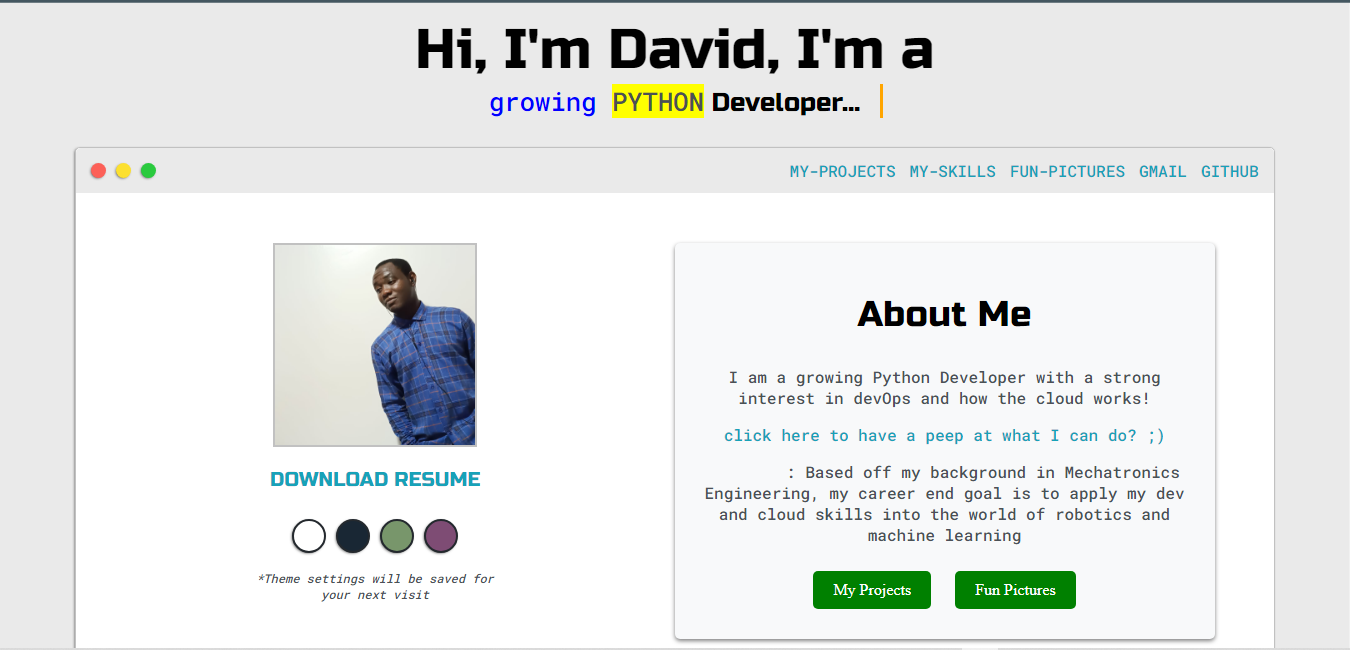
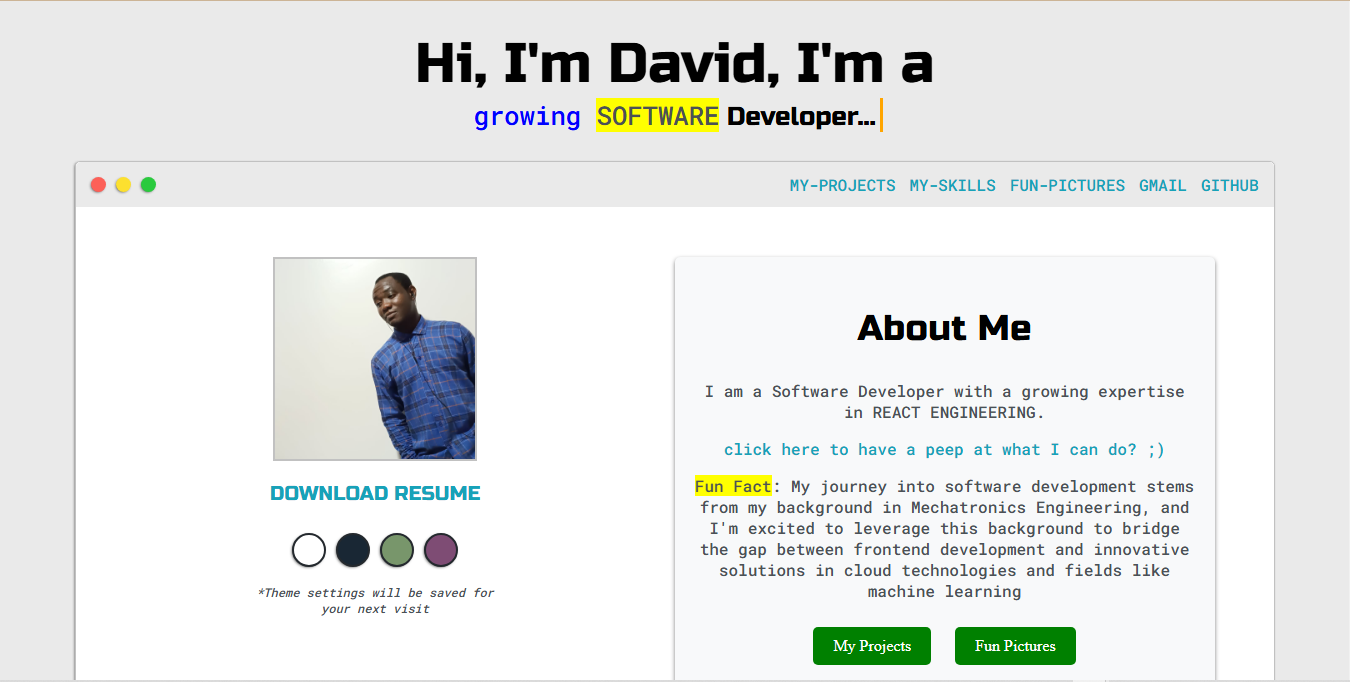
made edits

diff --git a/website/templates/my_skills.html b/website/templates/my_skills.html
@@ -14,11 +14,16 @@
 	<div class="category">
 		<h3>Web Development</h3>
 		<div class="skills">
-			<div class="skill">Flask Web Framework</div>
-			<div class="skill">React</div>
 			<div class="skill">html</div>
 			<div class="skill">css</div>
 			<div class="skill">javascript</div>
+			<div class="skill">React</div>
+			<div class="skill">Redux</div>
+			<div class="skill">Bootstrap</div>
+			<div class="skill">TypeScript</div>
+			<div class="skill">Next JS</div>
+			<div class="skill">Fast API</div>
+			<div class="skill">Flask</div>
 		</div>
 	</div>
 
@@ -34,9 +39,12 @@
 		<h3>DevOps</h3>
 		<div class="skills">
 			<div class="skill">Linux</div>
+			<div class="skill">Python</div>
 			<div class="skill">Bash scripting</div>
-			<div class="skill">AWS cloud products such as AWS Elastic Compute Cloud (ec2 instances)</div>
+			<div class="skill">AWS EC2</div>
 			<div class="skill">Docker</div>
+			<div class="skill">Github Workflow</div>
+			<div class="skill">CI/CD pipeline</div>
 		</div>
 	</div>		
 	
@@ -45,6 +53,9 @@
 		<div class="skills">
 			<div class="skill">Postman</div>
 			<div class="skill">Git and GitHub</div>
+			<div class="skill">Firebase</div>
+			<div class="skill">Vercel</div>
+			<div class="skill">Github pages</div>
 			<div class="skill">Lucid Charts</div>
 		</div>
 	</div>

diff --git a/website/templates/home_page.html b/website/templates/home_page.html
@@ -39,9 +39,9 @@
 			{% block my_skills%}
 			<div class="about-me">
 		    		<h2> About Me </h2>
-		    		<p>I am a growing Python Developer with a strong interest in devOps and how the cloud works!</p>
+		    		<p>I am a Software Developer with a growing expertise in REACT ENGINEERING.</p>
 				<p class="type-skills"> <a href="/my-skills">click here to have a peep at what I can do? ;) </a></p>
-				<p><span class="blink">Fun Fact</span>: Based off my background in Mechatronics Engineering, my <span>career end goal</span> is to apply my dev and cloud skills into the world of robotics and machine learning</p>
+				<p><span class="blink">Fun Fact</span>: My journey into software development stems from my background in Mechatronics Engineering, and I'm excited to leverage this background to bridge the gap between frontend development and innovative solutions in cloud technologies and fields like machine learning</p>
 				<a href="/my-projects" class="button-pages">My Projects</a>
 				<a href="/fun-gallery" class="button-pages">Fun Pictures</a>
 			</div>

diff --git a/website/templates/index.html b/website/templates/index.html
@@ -21,7 +21,7 @@
         <div class="main-container"> 
             <div class="greeting-wrapper">
                 <h1>Hi, I'm David, I'm a</h1>
-		<div class="typewriter-container"><h5 class="typed-out"><span style="color:blue"> growing </span><span style="background-color:yellow">PYTHON</span> Developer... </h5></div>                
+		<div class="typewriter-container"><h5 class="typed-out"><span style="color:blue"> growing </span><span style="background-color:yellow">SOFTWARE</span> Developer... </h5></div>                
             </div>
 		{% block content %}
 		{% endblock %}

diff --git a/website/static/styles.css b/website/static/styles.css
@@ -278,11 +278,11 @@ h6 {font-size: 16px;}
 	background-color: #f8f9fa;
 	box-shadow: 0 2px 4px rgba(0,0,0,0.5);
 	max-width: 500px;
-	height:300px;
+	/* height:300px; */
 	margin: 0 auto;
 	padding: 20px;
 	
-	overflow-x: scroll;
+	/* overflow-x: scroll; */
 	white-space:nowrap;
 	
 	position:relative;
@@ -291,6 +291,7 @@ h6 {font-size: 16px;}
 .container h2 {
 	text-align:center;
 	margin-bottom:20px;
+    margin-top: 0px;
 	
 	position: sticky;
 	top: 0;
